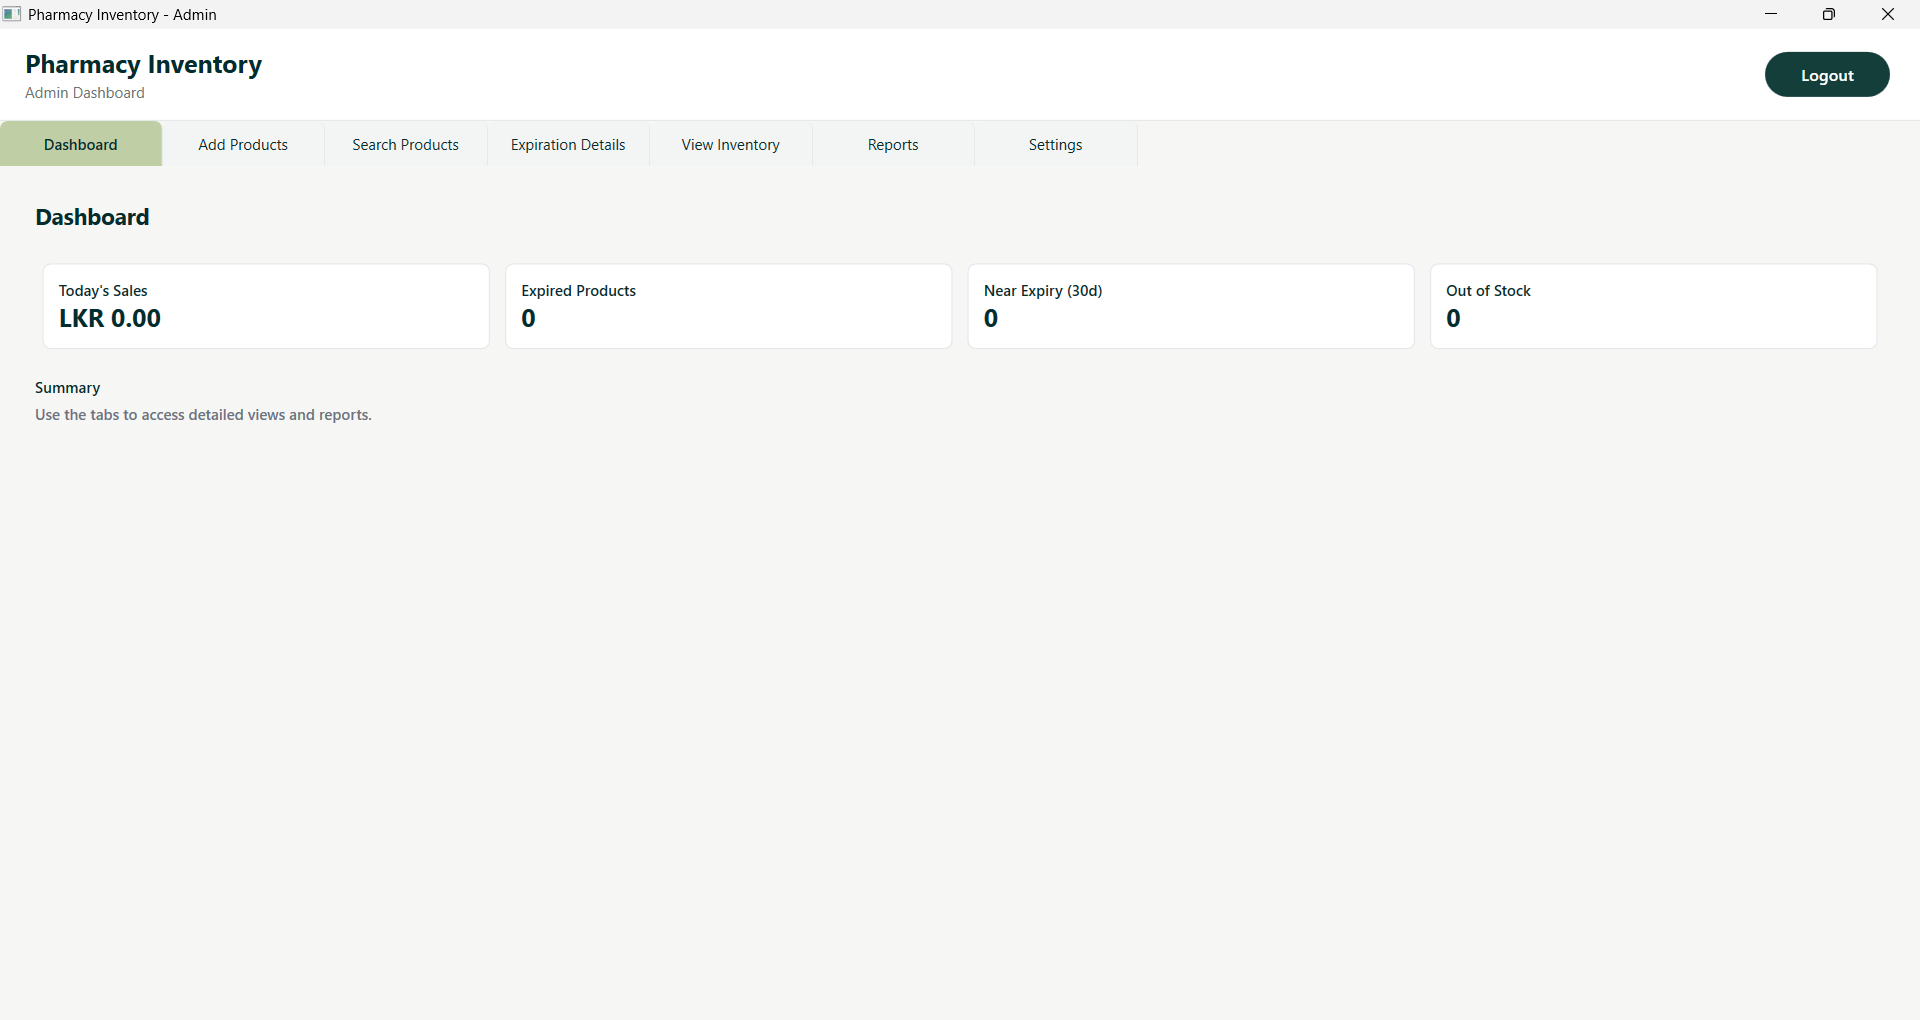
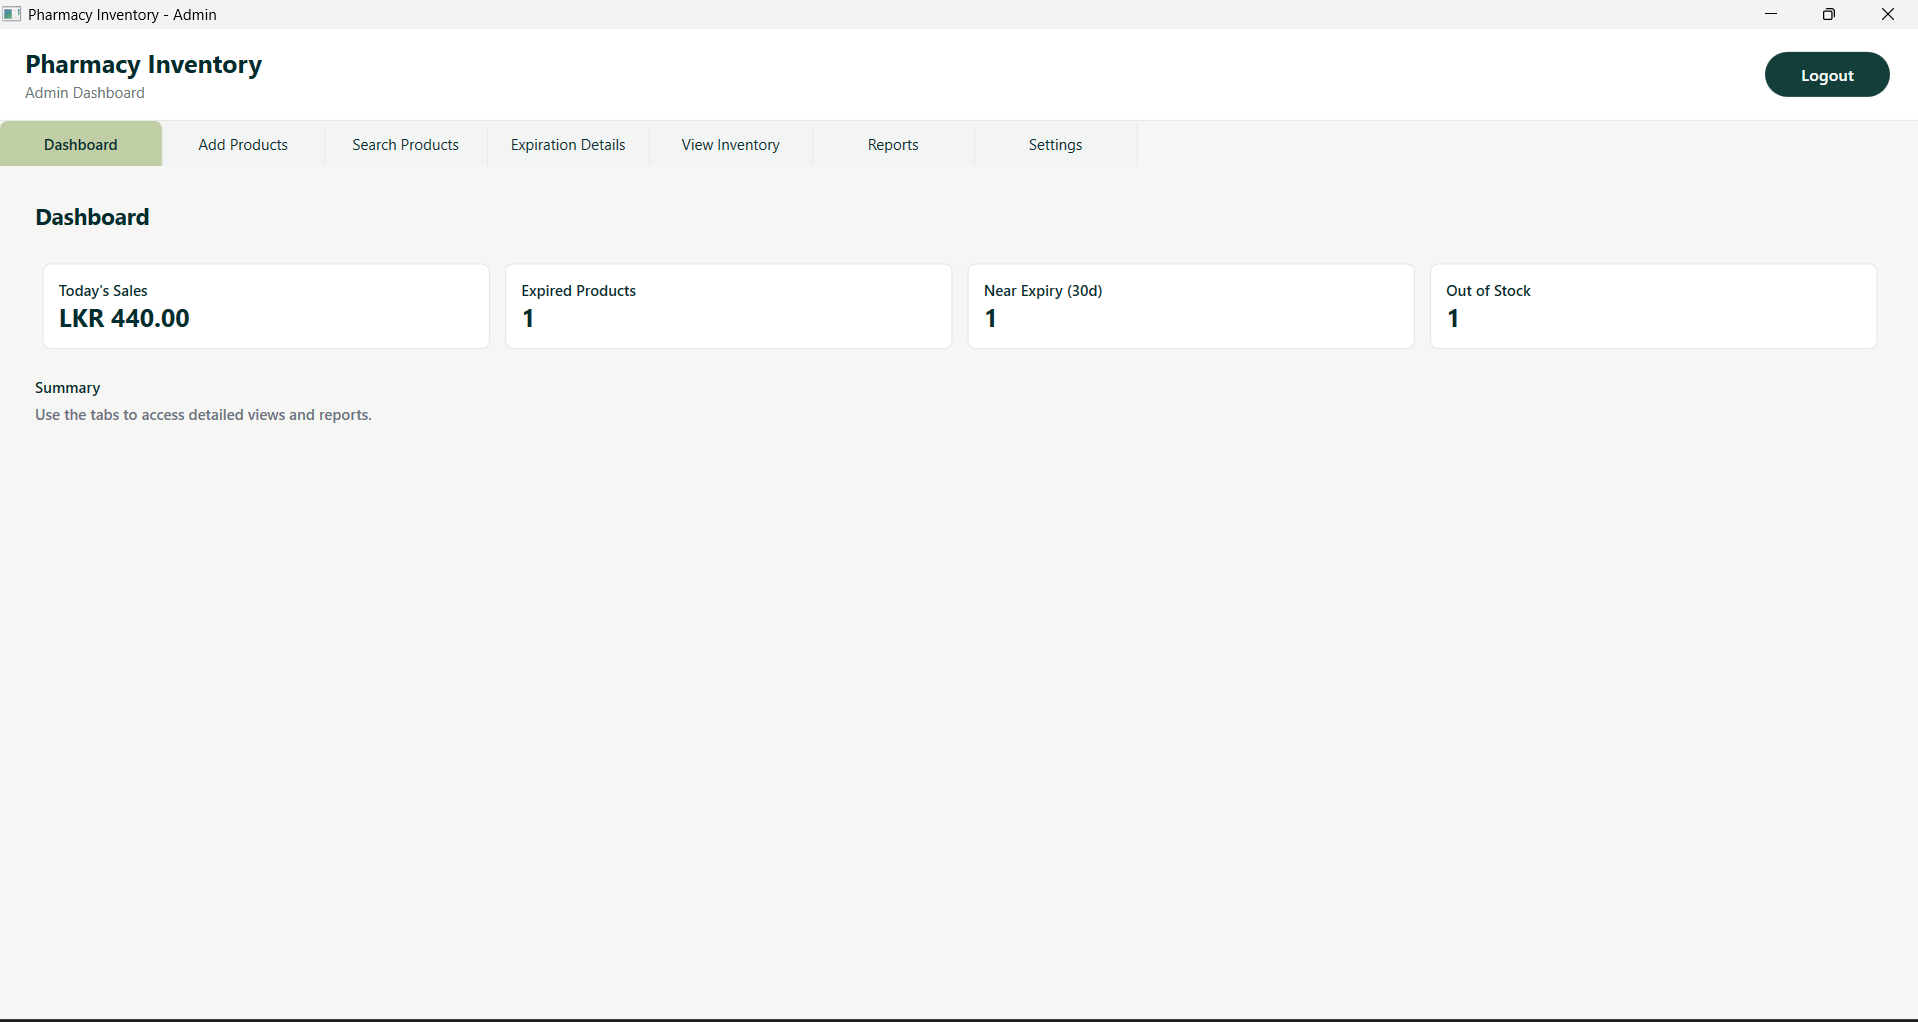
docs: add full screenshot set (inventory, add product, cashier POS, settings) with mock data

diff --git a/README.md b/README.md
@@ -46,6 +46,16 @@ Pharmly is a role-based desktop point-of-sale and inventory system for small pha
 | <img src="docs/assets/login.png" width="380" alt="Login screen"/> | <img src="docs/assets/admin_dashboard.png" width="500" alt="Admin dashboard"/> |
 | Role-aware sign-in for Admin / Cashier | Live stats: sales, expired stock, near-expiry, out-of-stock |
 
+| View inventory | Add product |
+|:---:|:---:|
+| <img src="docs/assets/admin_inventory.png" width="500" alt="Inventory table"/> | <img src="docs/assets/admin_add_product.png" width="500" alt="Add product form"/> |
+| Full stock table with expiry status per item | Medicine/grocery form with Excel import |
+
+| Cashier POS | Settings — user management |
+|:---:|:---:|
+| <img src="docs/assets/cashier_pos.png" width="500" alt="Cashier point of sale"/> | <img src="docs/assets/admin_settings.png" width="500" alt="Admin settings"/> |
+| Cart-based checkout with live stock/expiry status | Add/manage Admin and Cashier accounts |
+
 </div>
 
 ## Features
